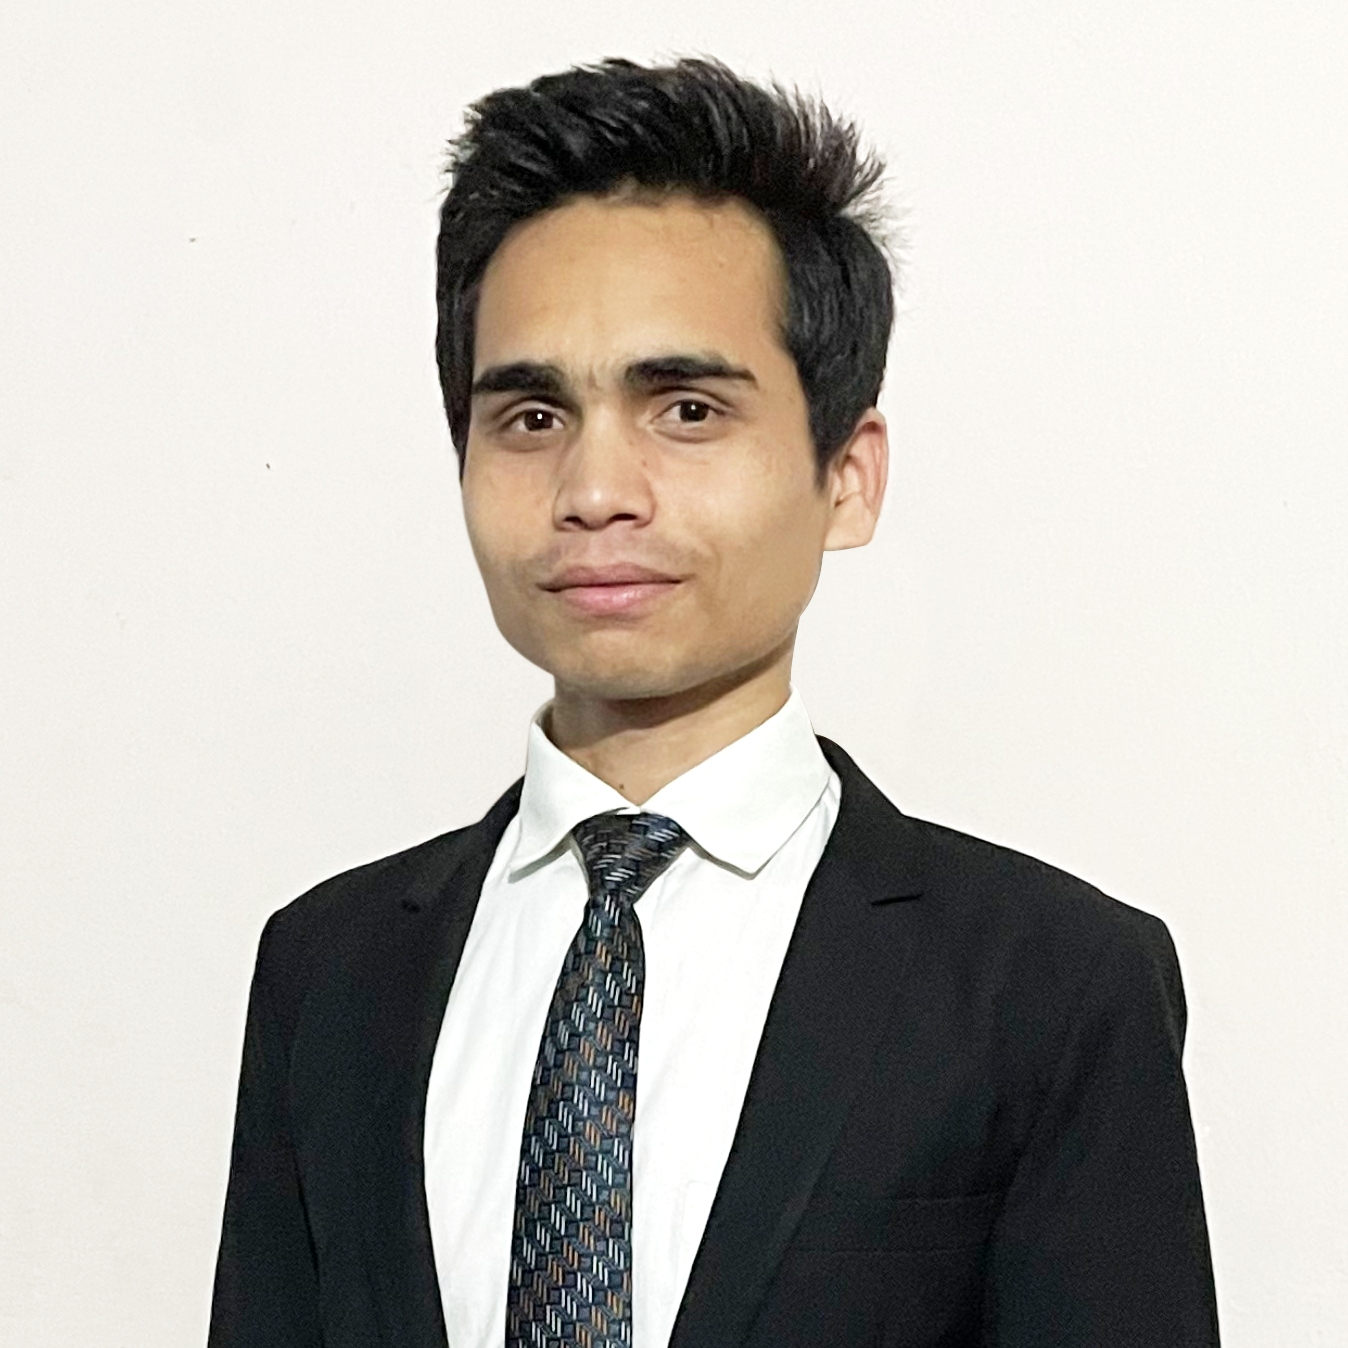
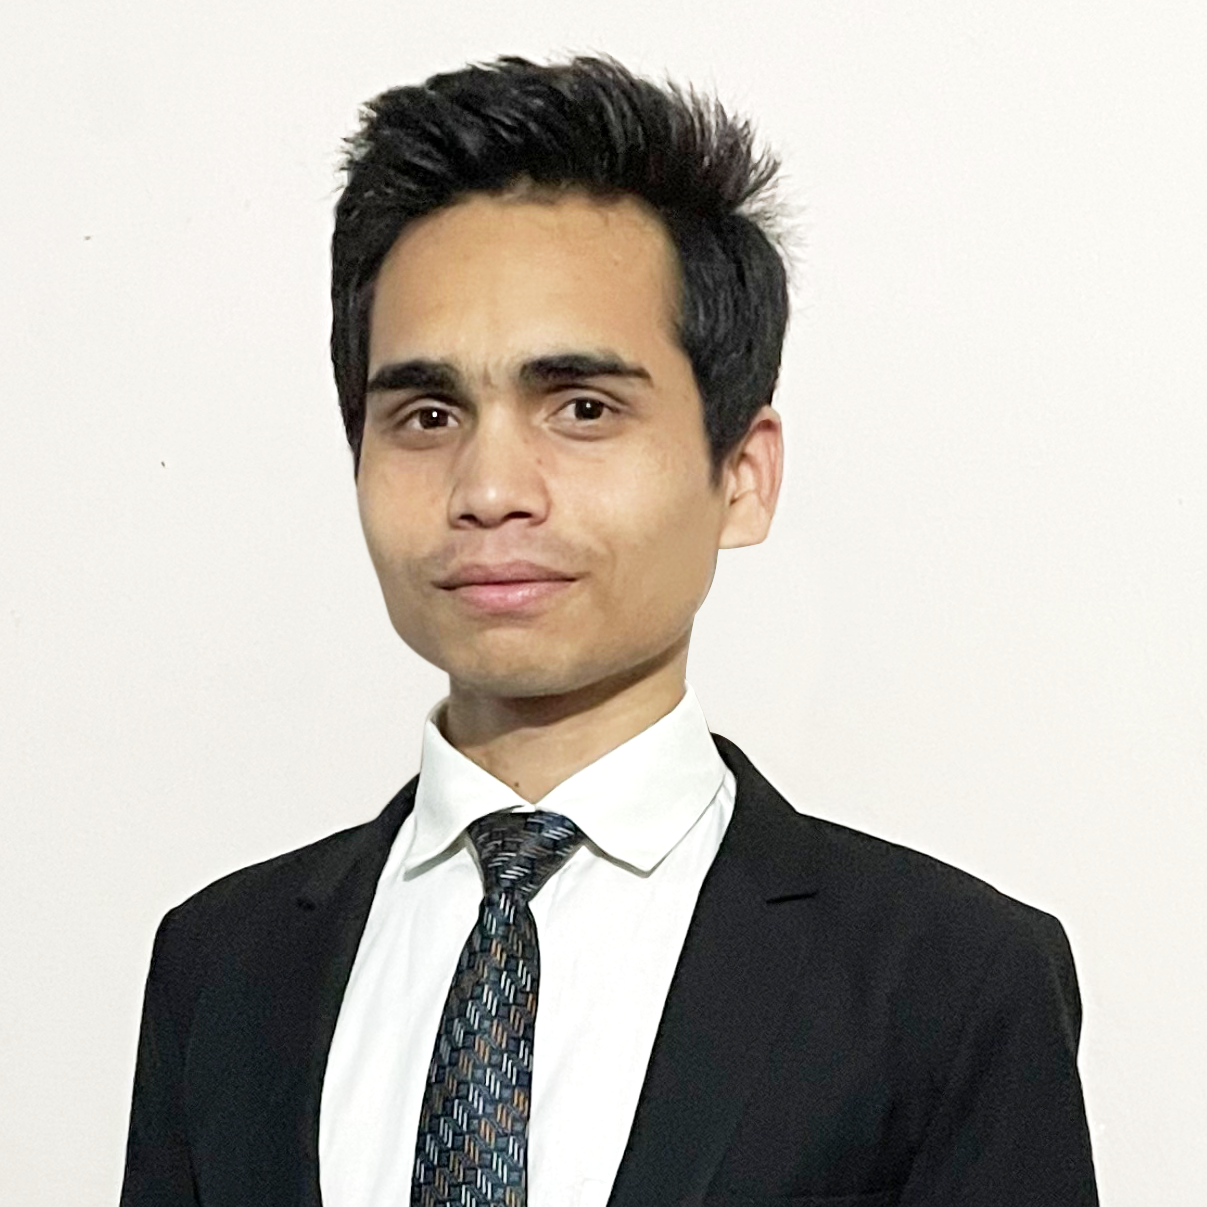
updates

diff --git a/src/components/About.jsx b/src/components/About.jsx
@@ -1,13 +1,5 @@
 import React from "react";
-import {
-  Flex,
-  Box,
-  ListItem,
-  UnorderedList,
-  Image,
-  Text,
-  Center,
-} from "@chakra-ui/react";
+import { Flex, Box, ListItem, UnorderedList, Image, Text, Center } from "@chakra-ui/react";
 import SabirAnsari from "../assets/images/SabirAnsari.gif";
 import { Typewriter } from "react-simple-typewriter";
 
@@ -37,11 +29,11 @@ export const About = () => {
       <Flex
         w={{
           base: "100%",
-          sm: "40%",
-          md: "40%",
-          lg: "40%",
-          xl: "40%",
-          "2xl": "40%",
+          sm: "50%",
+          md: "50%",
+          lg: "50%",
+          xl: "50%",
+          "2xl": "50%",
         }}
         p={{
           base: "2rem",
@@ -55,7 +47,18 @@ export const About = () => {
         align={"center"}
         justify={"center"}
       >
-        <Image src={SabirAnsari} alt="Sabir Ansari" w={"100%"} />
+        <Image
+          src={SabirAnsari}
+          alt="Sabir Ansari"
+          w={{
+            base: "90%",
+            sm: "90%",
+            md: "90%",
+            lg: "70%",
+            xl: "70%",
+            "2xl": "70%",
+          }}
+        />
 
         <Center>
           <Text>
@@ -84,11 +87,11 @@ export const About = () => {
       <Box
         w={{
           base: "100%",
-          sm: "60%",
-          md: "60%",
-          lg: "60%",
-          xl: "60%",
-          "2xl": "60%",
+          sm: "50%",
+          md: "50%",
+          lg: "50%",
+          xl: "50%",
+          "2xl": "50%",
         }}
       >
         {/* first */}
@@ -133,32 +136,28 @@ export const About = () => {
           color={"#788097"}
         >
           <ListItem>
-            Hello! My name Sabir Ansari and I enjoy creating things that live on
-            the internet.
+            Hello! My name Sabir Ansari and I enjoy creating things that live on the internet.
           </ListItem>
 
           <ListItem>
-            I'm a passionate Developer, with strong administrative and
-            communication skills, good attention to detail and the ability to
-            write efficient code using MERN Stack.
+            I'm a passionate Developer, with strong administrative and communication skills, good
+            attention to detail and the ability to write efficient code using MERN Stack.
           </ListItem>
 
           <ListItem>
-            My interest in web development started back in 2016 when I was in
-            class 10th I saw my cousin making some basic webpages and I got
-            facinated with it.
+            My interest in web development started back in 2016 when I was in class 12th I saw my
+            friend making some basic webpages and I got facinated with it.
           </ListItem>
 
           <ListItem>
-            As I grow and flourish as a Developer, one thing which keeps me
-            going is my inquisitiveness for discovering new things every day.
+            As I grow and flourish as a Developer, one thing which keeps me going is my
+            inquisitiveness for discovering new things every day.
           </ListItem>
 
           <ListItem>
-            Fast Forwarding to today, I built a number of web applications and 4
-            major projects. Learned a great deal about teamwork, leadership, and
-            communication. After months of rigorous training, here I am looking
-            for an opportunity as a full stack web developer.
+            Fast Forwarding to today, I built a number of web applications and 4 major projects.
+            Learned a great deal about teamwork, leadership, and communication. After months of
+            rigorous training, here I am looking for an opportunity as a full stack web developer.
           </ListItem>
         </UnorderedList>
       </Box>

diff --git a/src/components/Projects.jsx b/src/components/Projects.jsx
@@ -1,14 +1,6 @@
 import React from "react";
 import { Link } from "react-scroll";
-import {
-  Box,
-  Flex,
-  Text,
-  Grid,
-  Image,
-  Center,
-  useColorMode,
-} from "@chakra-ui/react";
+import { Box, Flex, Text, Grid, Image, Center, useColorMode } from "@chakra-ui/react";
 import zoomcar from "../assets/images/zoomcar.png";
 import apnamart from "../assets/images/apnamart.png";
 import todo from "../assets/images/todo.png";
@@ -54,7 +46,7 @@ export const Projects = () => {
 
   return (
     <Box
-    id="projects"
+      id="projects"
       p={{
         base: "1rem 1rem",
         sm: "1rem 1rem",
@@ -122,9 +114,9 @@ export const Projects = () => {
               "2xl": "3rem",
             }}
             gap={".5rem"}
-            boxShadow={
-              "rgba(0, 0, 0, 0.25) 0px 0.0625em 0.0625em, rgba(0, 0, 0, 0.25) 0px 0.125em 0.5em, rgba(255, 255, 255, 0.1) 0px 0px 0px 1px inset"
-            }
+            // boxShadow={
+            //   "rgba(0, 0, 0, 0.25) 0px 0.0625em 0.0625em, rgba(0, 0, 0, 0.25) 0px 0.125em 0.5em, rgba(255, 255, 255, 0.1) 0px 0px 0px 1px inset"
+            // }
             borderRadius="10px"
             color={"#788097"}
             w={"100%"}
@@ -139,7 +131,7 @@ export const Projects = () => {
                 transition="transform .5s"
                 _hover={{
                   cursor: "pointer",
-                  transform: "scale(0.8)",
+                  transform: "scale(0.9)",
                 }}
               />
             </a>

diff --git a/src/components/Home.jsx b/src/components/Home.jsx
@@ -32,11 +32,11 @@ export const Home = () => {
         gap={"1rem"}
         w={{
           base: "100%",
-          sm: "60%",
-          md: "60%",
-          lg: "60%",
-          xl: "60%",
-          "2xl": "60%",
+          sm: "50%",
+          md: "50%",
+          lg: "50%",
+          xl: "50%",
+          "2xl": "50%",
         }}
       >
         {/* first */}
@@ -114,11 +114,11 @@ export const Home = () => {
       <Flex
         w={{
           base: "100%",
-          sm: "40%",
-          md: "40%",
-          lg: "40%",
-          xl: "40%",
-          "2xl": "40%",
+          sm: "50%",
+          md: "50%",
+          lg: "50%",
+          xl: "50%",
+          "2xl": "50%",
         }}
         p={{
           base: "2rem",
@@ -137,7 +137,14 @@ export const Home = () => {
           alt={"Sabir Ansari"}
           borderRadius={"5px"}
           className="home-img"
-          w={"80%"}
+          w={{
+            base: "90%",
+            sm: "90%",
+            md: "90%",
+            lg: "70%",
+            xl: "70%",
+            "2xl": "70%",
+          }}
         />
 
         <Center>

diff --git a/src/components/Navbar.jsx b/src/components/Navbar.jsx
@@ -39,9 +39,6 @@ export const Navbar = () => {
       }}
       zIndex={"1"}
       bg={colorMode === "light" ? "white" : "black"}
-      boxShadow={
-        "rgba(0, 0, 0, 0.25) 0px 0.0625em 0.0625em, rgba(0, 0, 0, 0.25) 0px 0.125em 0.5em, rgba(255, 255, 255, 0.1) 0px 0px 0px 1px inset"
-      }
     >
       {/* first */}
       <Box

diff --git a/src/components/Footer.jsx b/src/components/Footer.jsx
@@ -20,7 +20,9 @@ export const Footer = () => {
       align={"center"}
       gap={"1rem"}
     >
-      <Text>Designed and build by Sabir Ansari, 2023 All rights reserved.</Text>
+      <Text textAlign={"center"}>
+        Designed and build by Sabir Ansari, 2023 All rights reserved.
+      </Text>
     </Flex>
   );
 };
